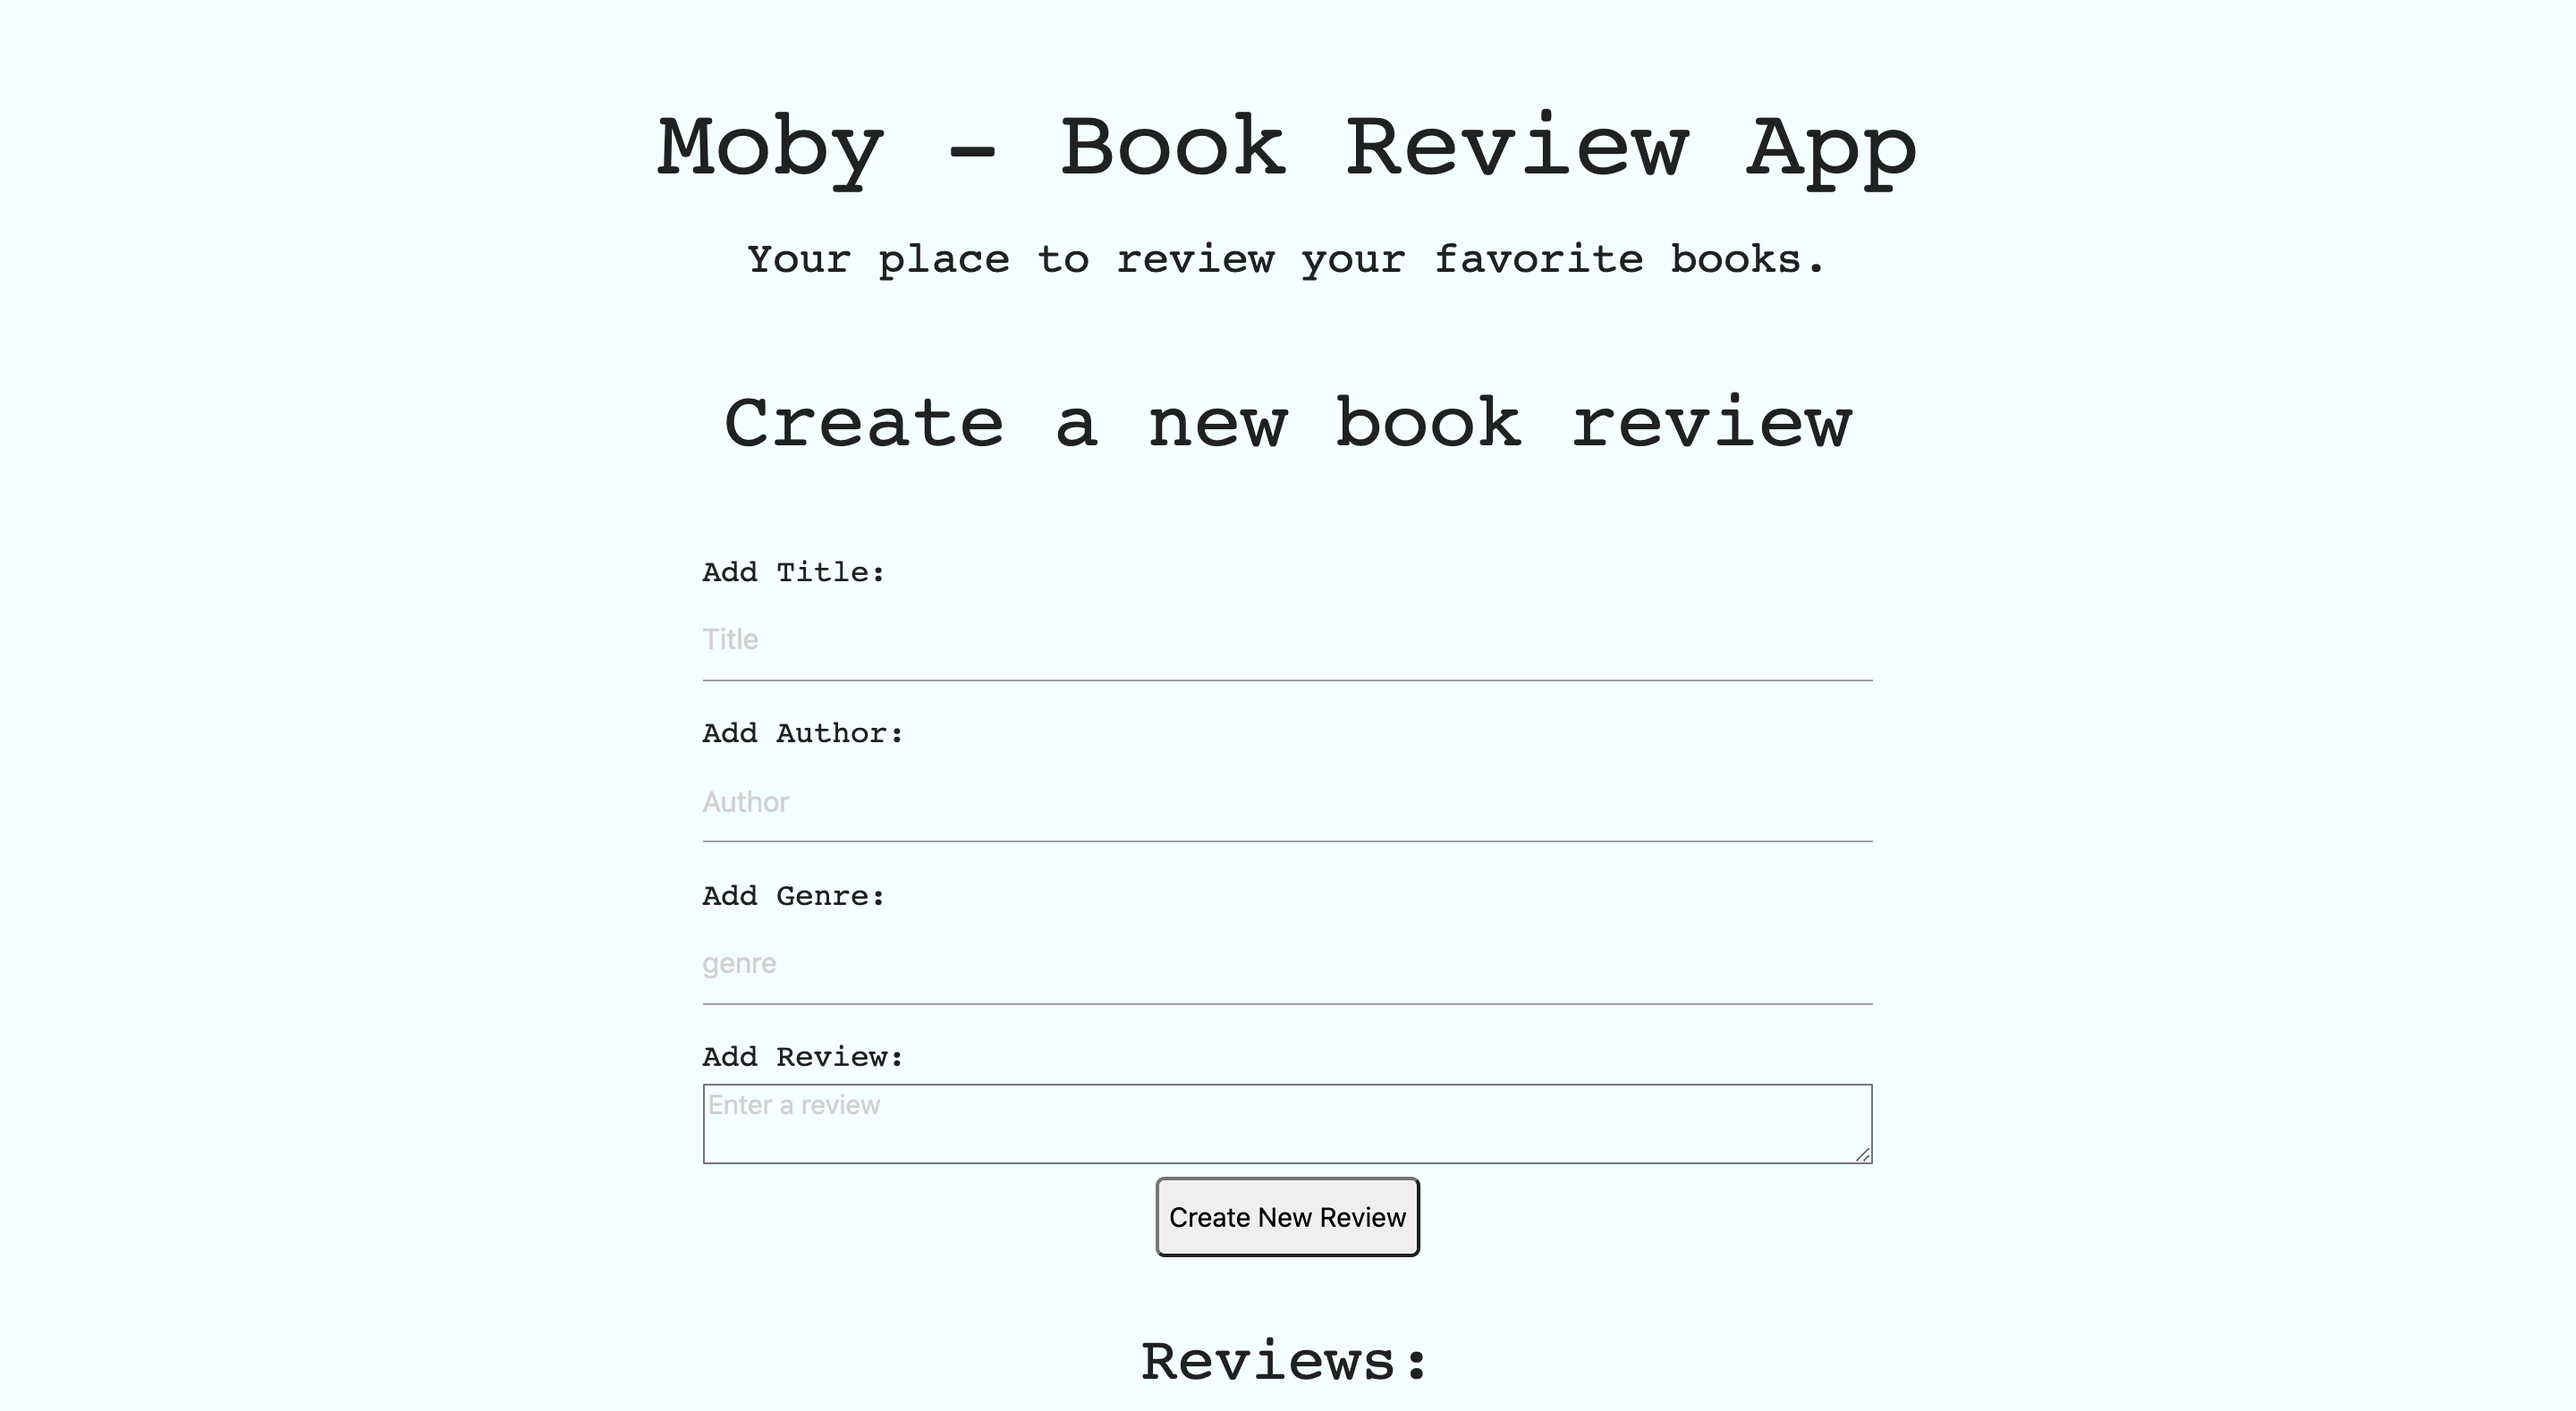
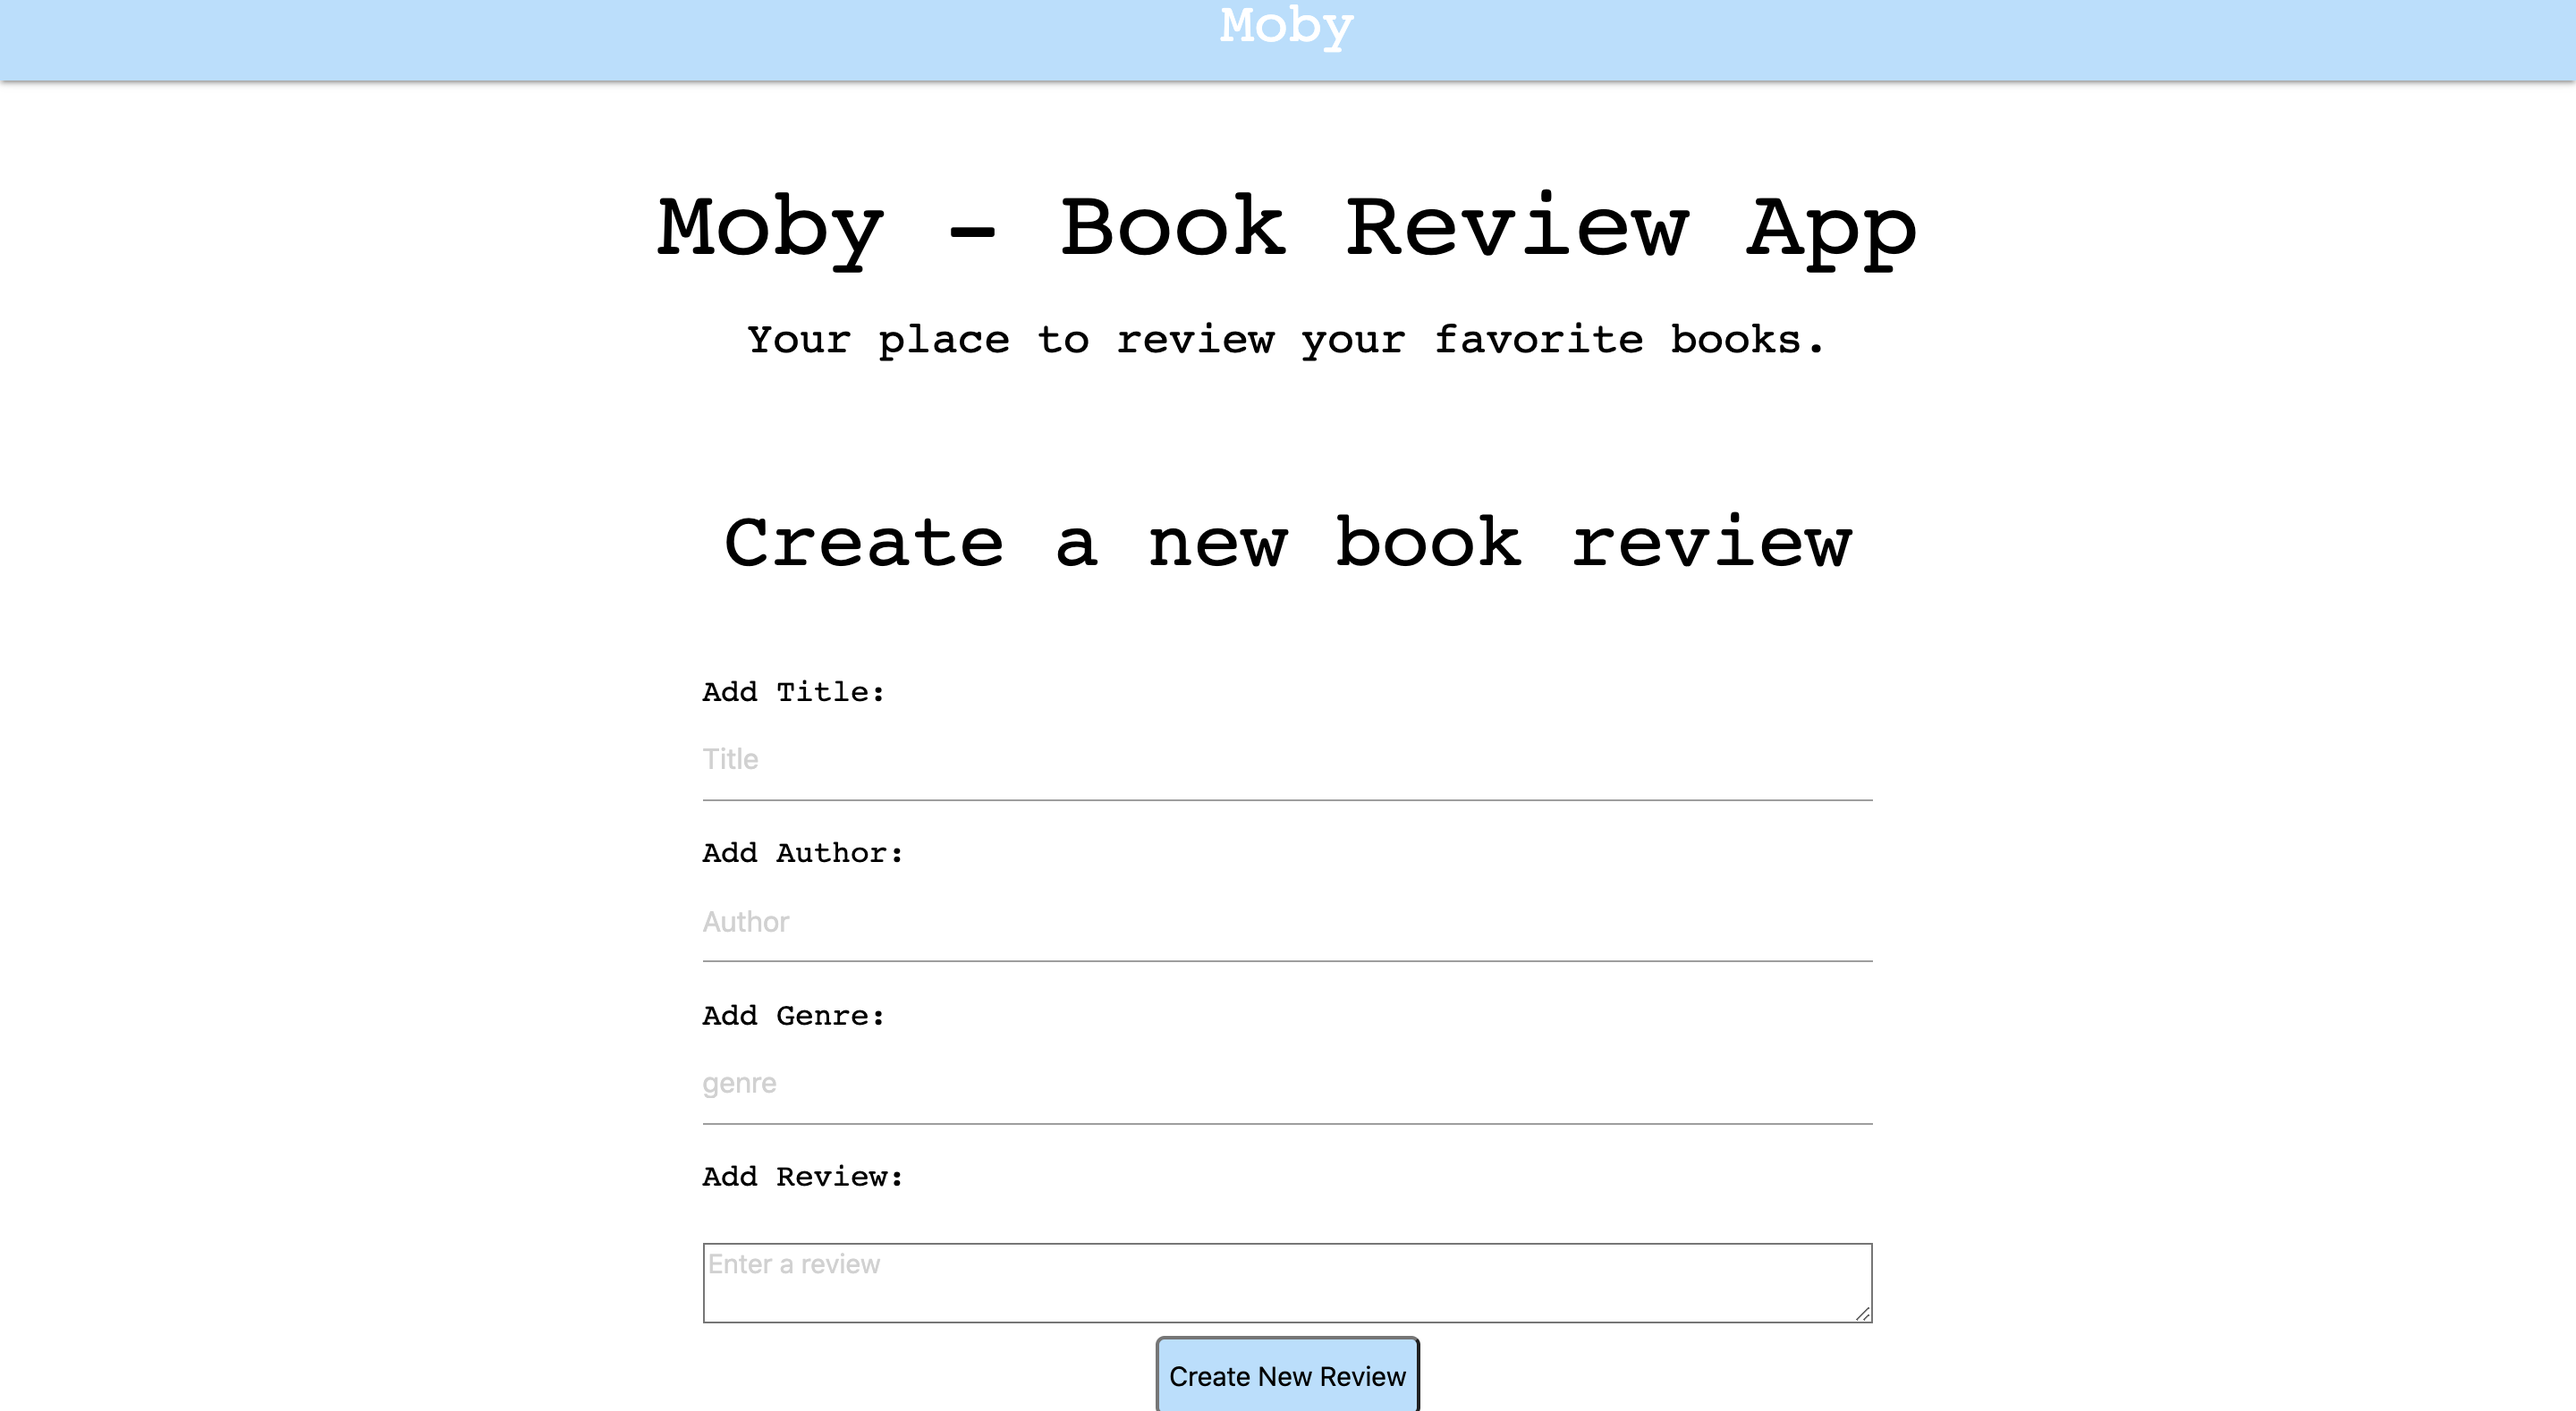
add styling

diff --git a/frontend/index.html b/frontend/index.html
@@ -14,17 +14,24 @@
 </head>
 <body>
 
+    <nav>
+        <div class="nav-wrapper #bbdefb blue lighten-4">
+          <a href="#" class="brand-logo center">Moby</a>
+        </div>
+      </nav>
+
     <div class="container">
         <header>
             <h2>Moby - Book Review App</h2>
             <h5>Your place to review your favorite books.</h5>
         </header>
 
+        <br>
 
-        <div class="container">
+        <div class="container center-align">
             <form class="review">
               <h3>Create a new book review</h3>
-                <br>
+              <br>
                 <h6>Add Title:</h6>
                 <input type="text" placeholder="Title" id = "bookTitle" />
                 <h6>Add Author:</h6>
@@ -32,11 +39,15 @@
                 <h6>Add Genre:</h6>
                 <input type="text" placeholder="genre" id = "bookGenre" />
                 <h6>Add Review:</h6>
+                <br>
               <textarea name="bookReview" placeholder="Enter a review" id = "bookReview"></textarea>
               <br>
               <input type="submit" name="submit" value="Create New Review"/>
             </form>
           </div>
+
+          <br>
+          <br>
 
         <main>
             <div>

diff --git a/frontend/src/index.js b/frontend/src/index.js
@@ -53,7 +53,7 @@ function addBook(title, author, genre, reviews) {
     })
     .then(response => response.json())
     .then(book => {
-       let newBook = new Book(book)
+       const newBook = new Book(book)
        addReview(newBook.id, reviews) // maybe a better way of passing down review body
     })
     .catch(err => alert("Book Failed: Please try again."))
@@ -62,8 +62,8 @@ function addBook(title, author, genre, reviews) {
 
 function reviewHandler(e) {
     e.preventDefault()
-    const bodyInput = document.querySelector('#reviewBody').value
-    const bookInput = e.target.id
+    let bodyInput = document.querySelector('#reviewBody').value
+    let bookInput = e.target.id
     addReview(bookInput, bodyInput)
 }
 
@@ -90,7 +90,7 @@ function addReview(book_id, body) {
 
 function removeReview(e) {
     e.preventDefault()
-    const id = e.target.id
+    let id = e.target.id
     fetch(`${ALLREVIEWS_URL}/${id}`, {
         method: "DELETE",
         headers: {

diff --git a/frontend/src/components/book.js b/frontend/src/components/book.js
@@ -28,7 +28,7 @@ class Book {
             bookDiv.innerHTML = `
             <h3 class="card-title">Title: <br>${this.title}</h3>
             <h5 class="card-content">Author: <br>${this.author}</h5>
-            <h5 class="card-content">Genre: <br>${this.genre}</h5>
+            <h5 class="card-content">Genre:  ${this.genre}</h5>
 
         `
             // insert div
@@ -67,7 +67,7 @@ class Book {
 
             // manipulate div
             bookDiv.innerHTML = `
-                <h3 class="card-title">Title: ${this.title}</h3>
+                <h3 class="card-title">Title: <br><br>${this.title}</h3>
                 <br>
                 <h5>Review: </h5>
                 <br>

diff --git a/frontend/style.css b/frontend/style.css
@@ -2,13 +2,13 @@ body {
   margin: 0;
   padding: 0;
   font-family: monospace;
-  background: #f4ffff;
+  color: black;
 }
+
 
 .container {
   text-align: center;
   padding: 1rem;
-  align-content: justify;
   height: auto;
 }
 
@@ -25,6 +25,7 @@ body {
 
 button {
   position: relative;
+  background: #bbdefb;
   border-radius: 5px;
   height: 3rem;
   width: max-content;
@@ -34,11 +35,11 @@ button {
 
 input {
   position: relative;
+  background: #bbdefb;
   border-radius: 5px;
   height: 3rem;
   width: max-content;
   font-size: 18px;
-  justify-self: center;
 }
 
 h6 {
